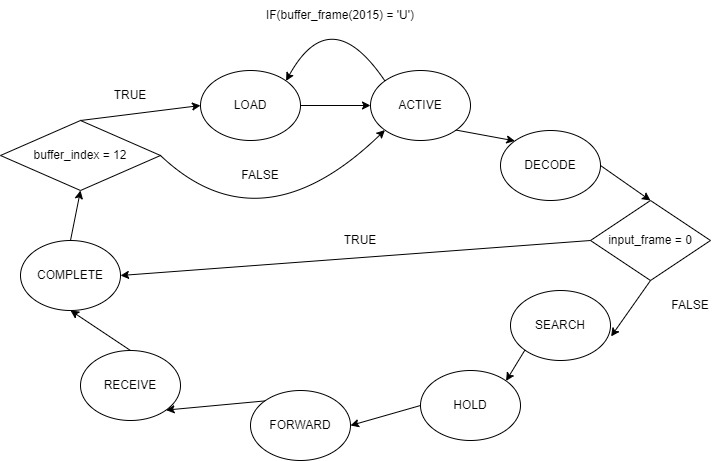
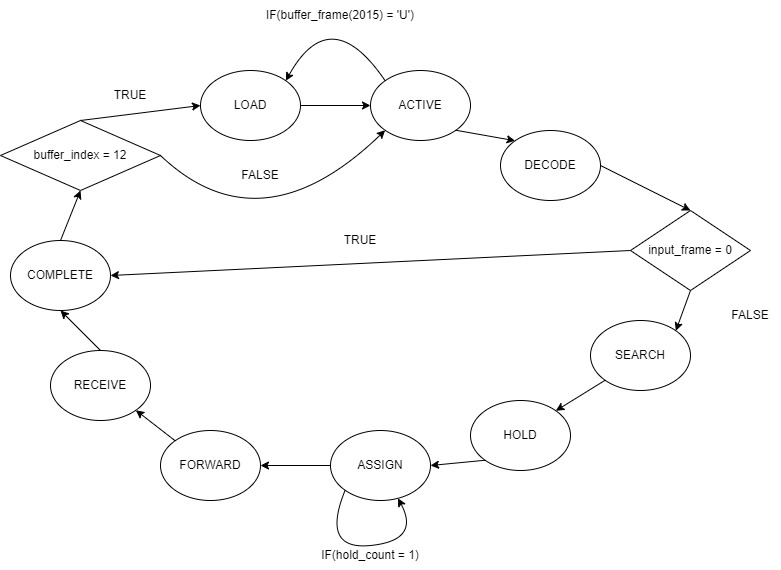
Renew State Diagram

diff --git a/README.md b/README.md
@@ -11,7 +11,8 @@ Rangkaian ini memiliki 5 komponen yang akan berinteraksi satu sama lain, yaitu S
 
 ## State Diagram
 
-![picture 0](https://i.imgur.com/JouJtAU.jpeg)  
+![picture 3](https://i.imgur.com/QkMjixY.jpeg)  
+
 
 Program ini memiliki 8 State. Antara lain LOAD, yang berfungsi untuk mengisi buffer dengan frame di switchport. ACTIVE merupakan state ketika switch sudah dalam keadaan aktif. DECODE merupakan state ketika switch menerima input frame dan memecahkan frame tersebut menjadi data-data seperti payload, dest. address, dan source address. SEARCH merupakan state ketika switch mencari port yang mac addressnya sesuai dengan mac address tujuan pada frame yang masuk. HOLD merupakan state ketika switch menahan data dalam signal buffer. FORWARD merupakan state ketika ada port yang ingin mengirim frame pada port lain. RECEIVE merupakan state ketika terdapat port yang menerima input dari port lain. Complete merupakan state ketika seluruh operasi telah selesai.
 
